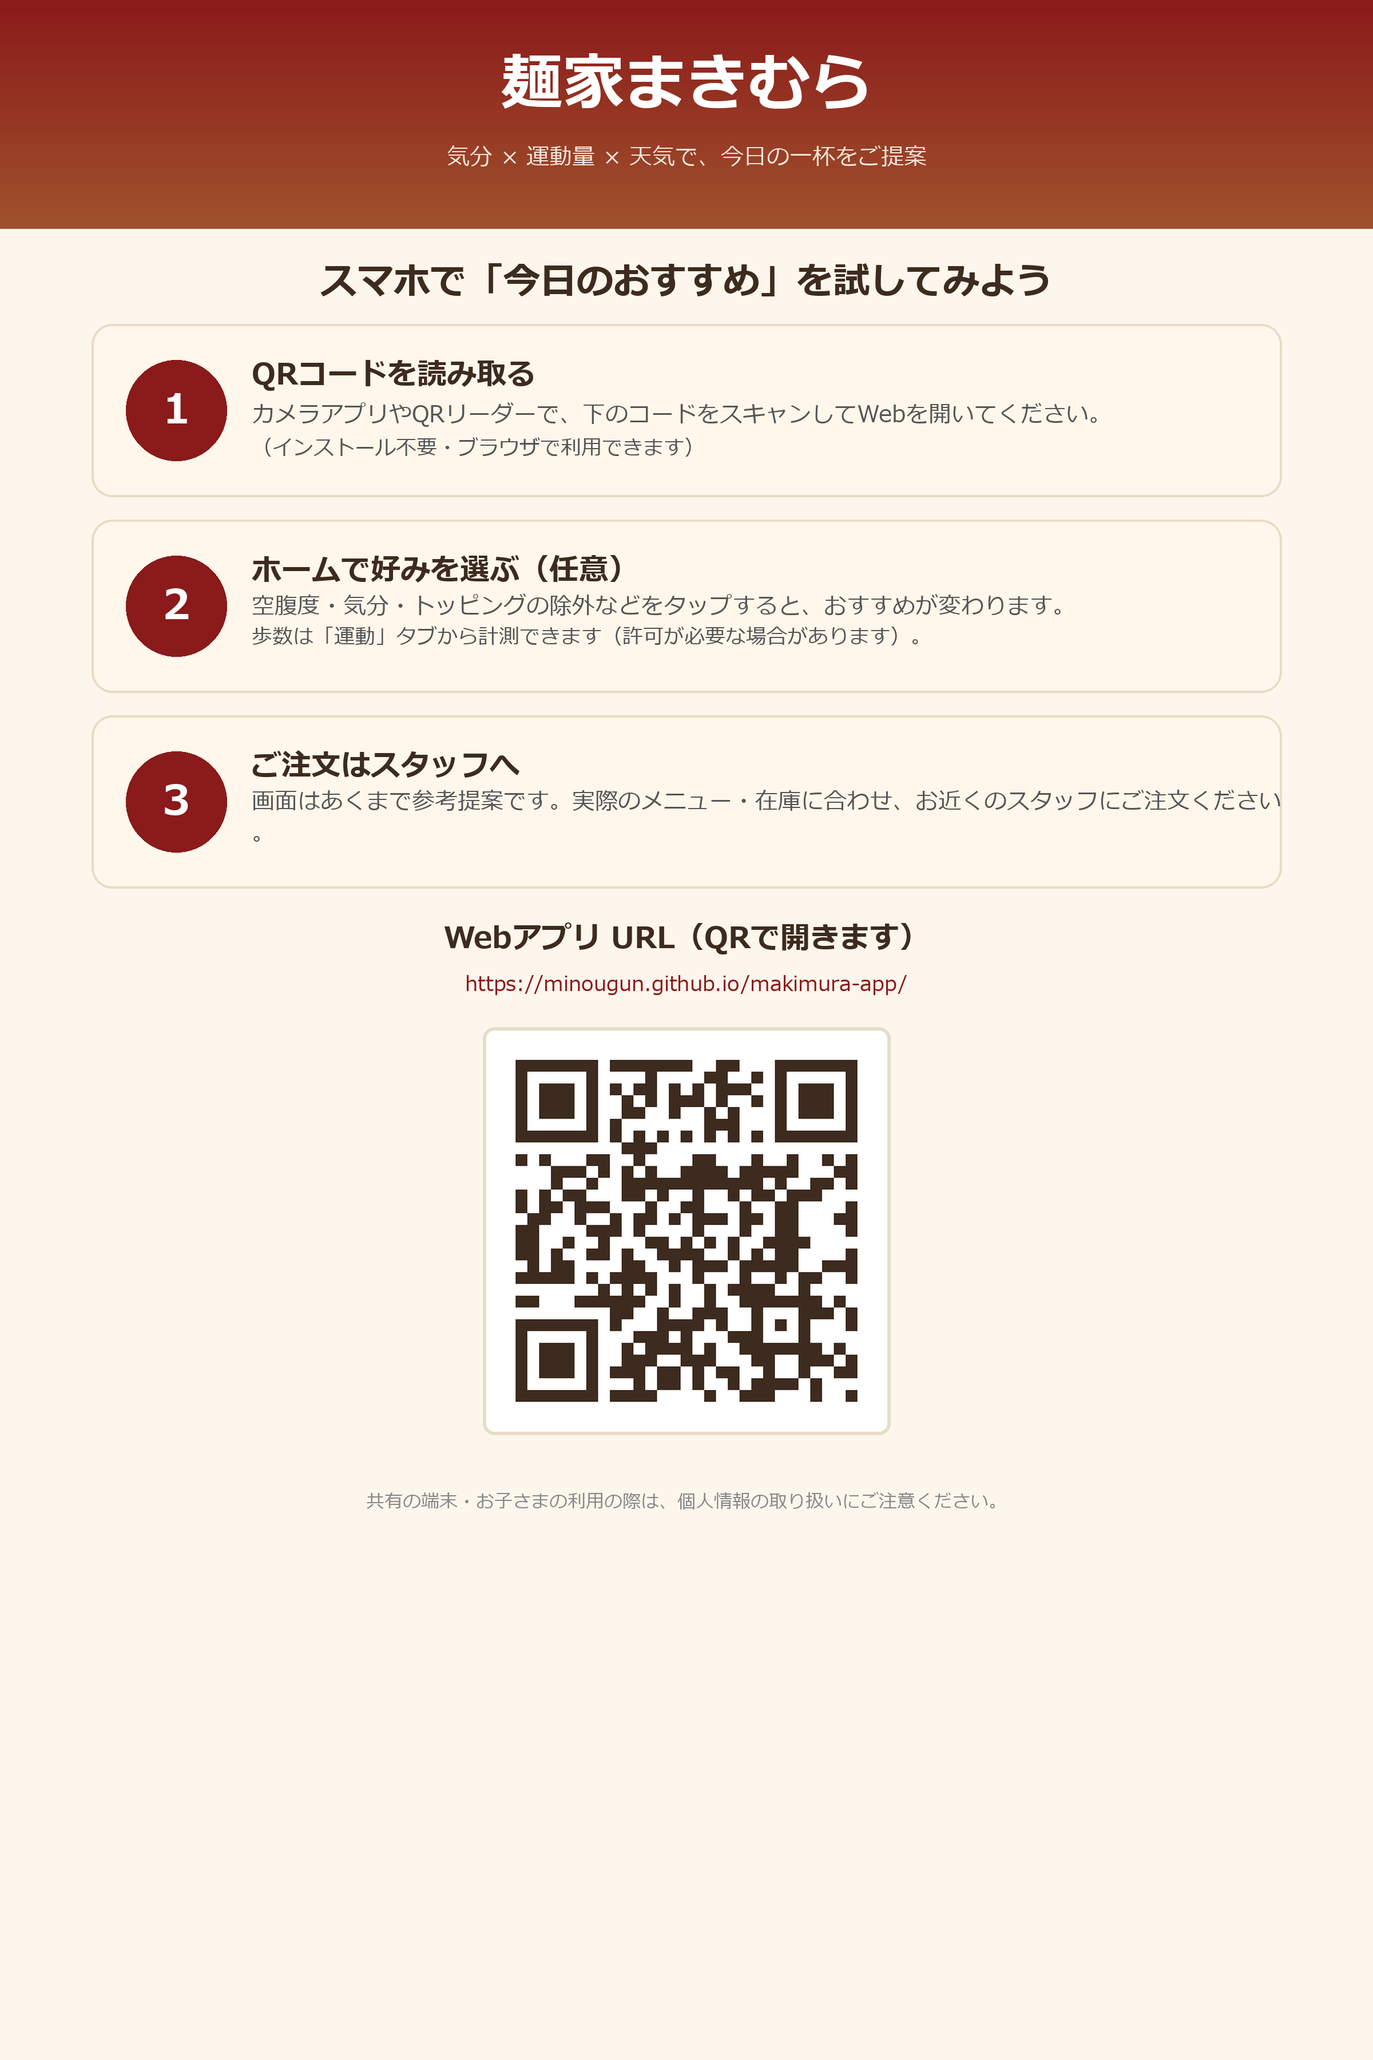
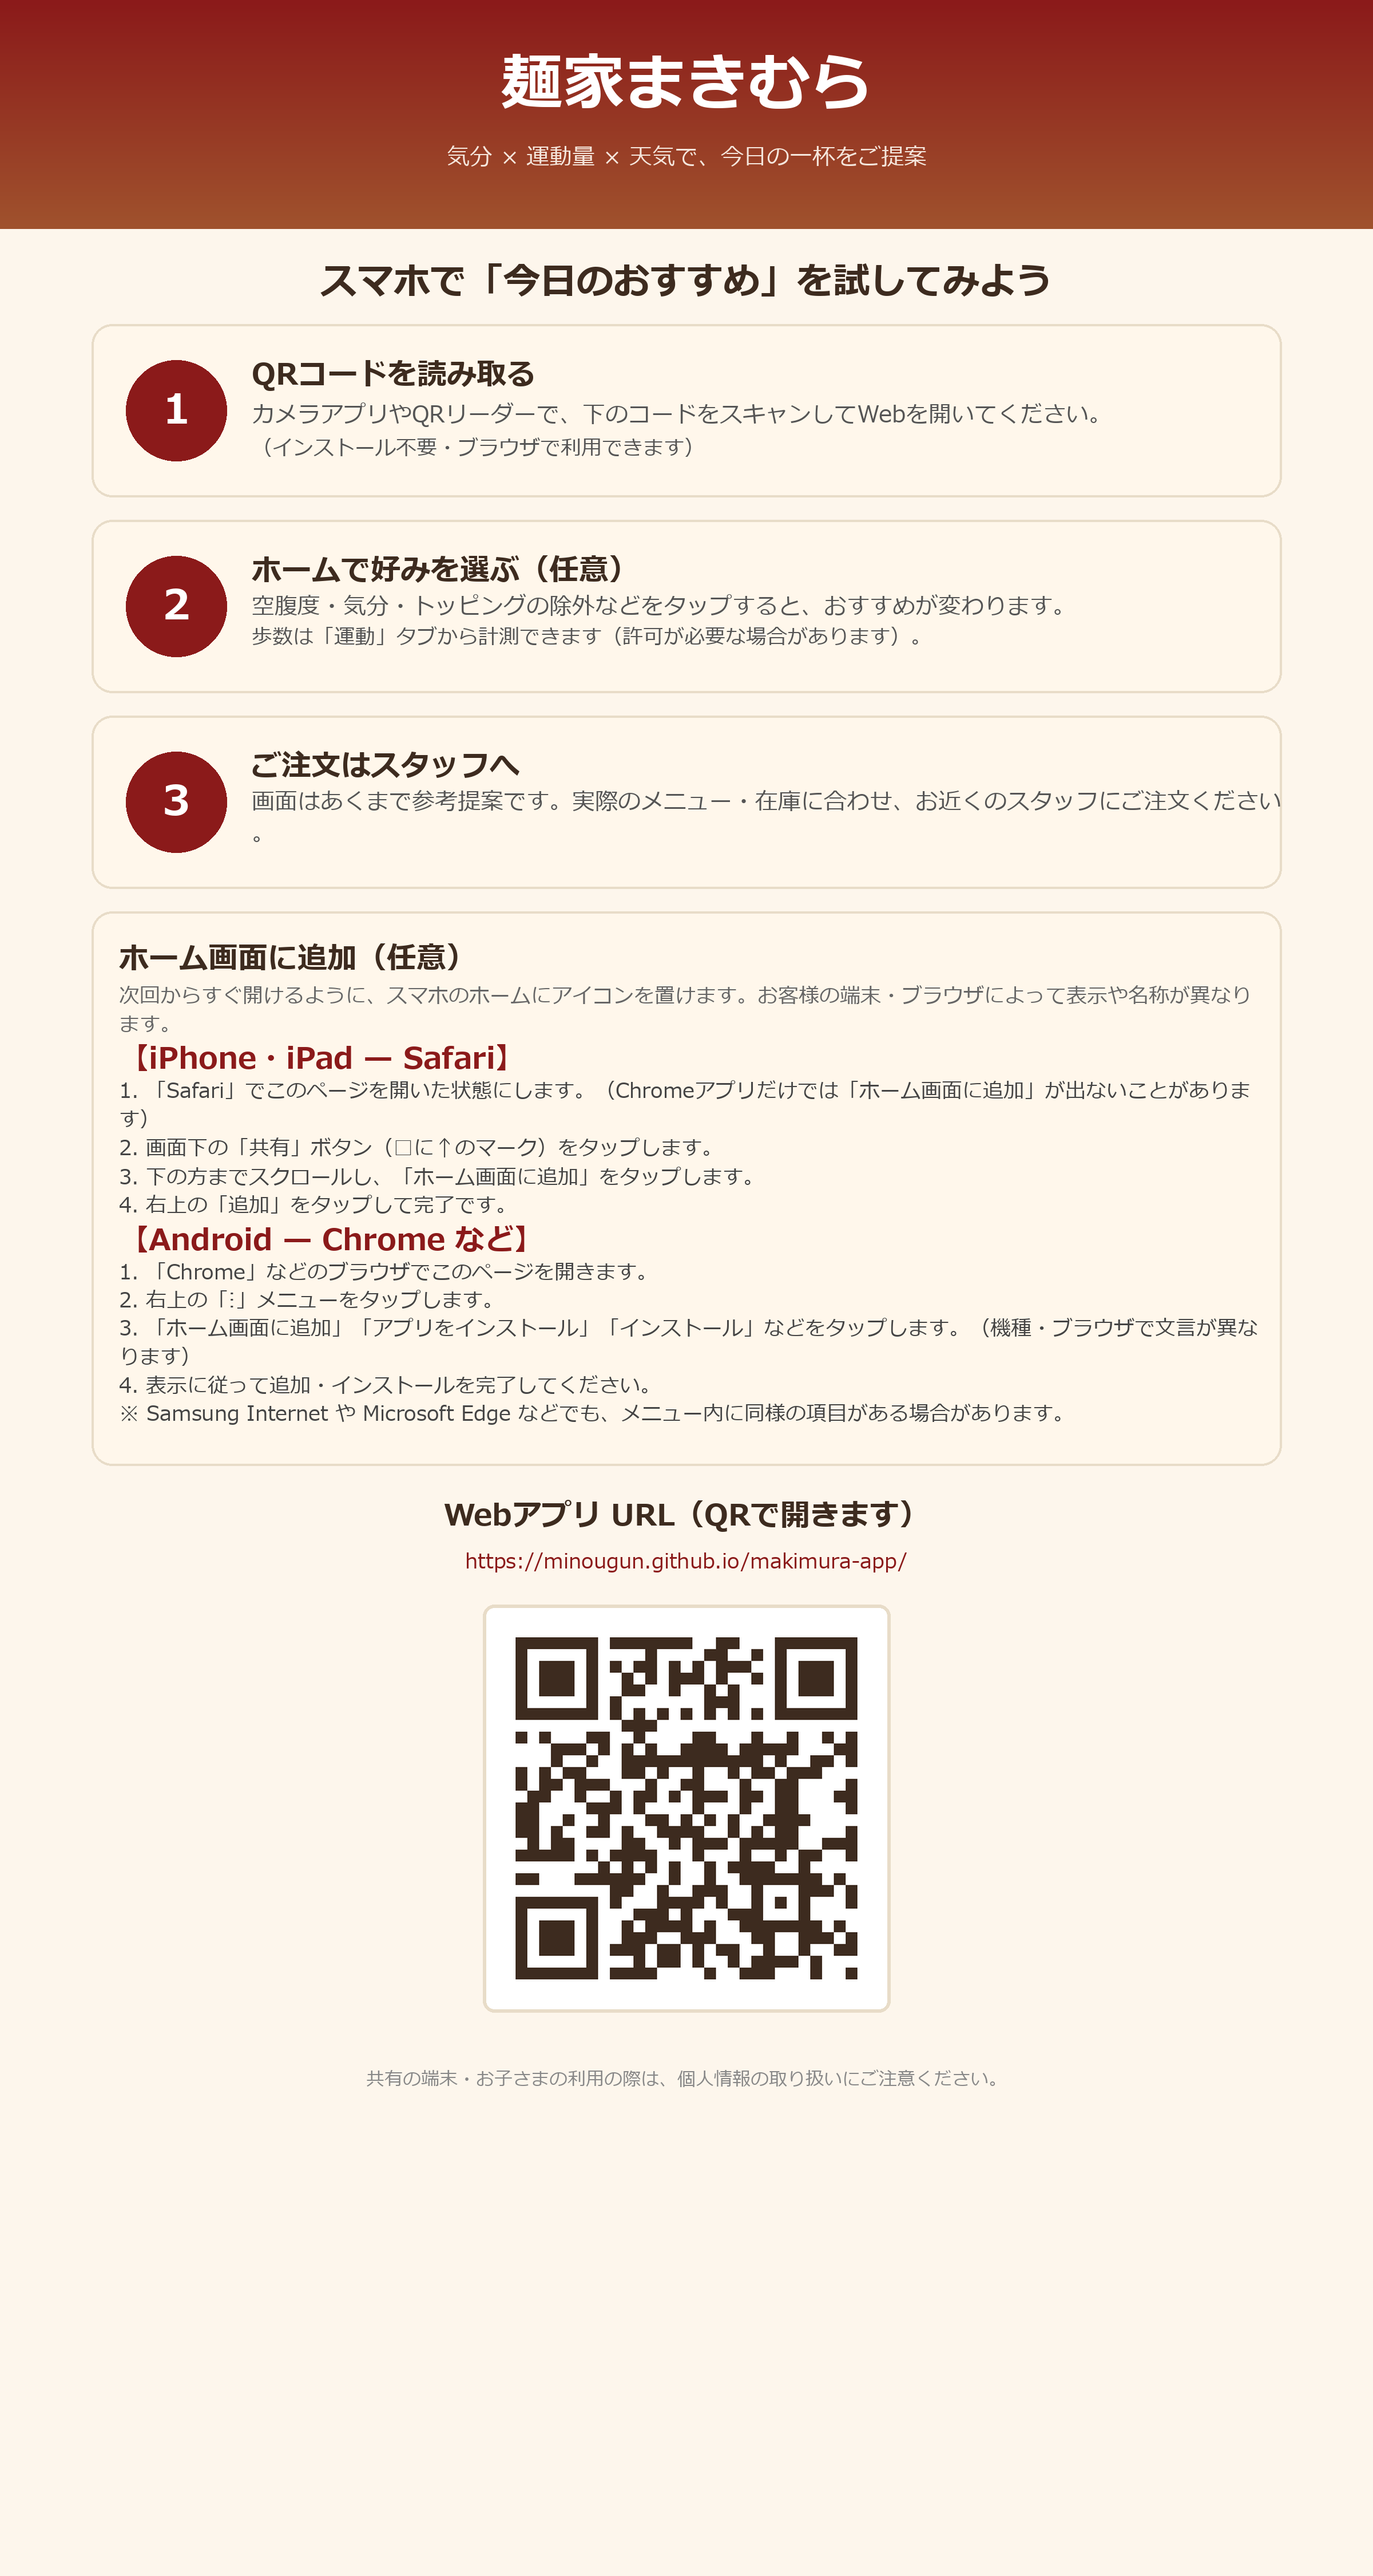
docs: 店頭カードにiOS/Androidのホーム画面追加手順を追記
Made-with: Cursor

diff --git a/docs/table-standee/generate_table_card.py b/docs/table-standee/generate_table_card.py
@@ -88,7 +88,7 @@ def _paste_qr(base: Image.Image, qr_img: Image.Image, dest_center_x: int, dest_t
 
 
 def render_table_guide_png(qr_img: Image.Image) -> None:
-    W, H = 2400, 3600
+    W, H = 2400, 4500
     M = 160
     text_w = W - 2 * M
     inner_left = M + 280  # 番号丸の右から本文
@@ -183,6 +183,65 @@ def render_table_guide_png(qr_img: Image.Image) -> None:
             ty = bbox[3] + 10
 
         y += card_h + 40
+
+    # --- ホーム画面に追加（iOS / Android）---
+    pwa_title = "ホーム画面に追加（任意）"
+    pwa_intro = (
+        "次回からすぐ開けるように、スマホのホームにアイコンを置けます。"
+        "お客様の端末・ブラウザによって表示や名称が異なります。"
+    )
+    pwa_ios_head = "【iPhone・iPad — Safari】"
+    pwa_ios_lines = [
+        "1. 「Safari」でこのページを開いた状態にします。"
+        "（Chromeアプリだけでは「ホーム画面に追加」が出ないことがあります）",
+        "2. 画面下の「共有」ボタン（□に↑のマーク）をタップします。",
+        "3. 下の方までスクロールし、「ホーム画面に追加」をタップします。",
+        "4. 右上の「追加」をタップして完了です。",
+    ]
+    pwa_and_head = "【Android — Chrome など】"
+    pwa_and_lines = [
+        "1. 「Chrome」などのブラウザでこのページを開きます。",
+        "2. 右上の「⋮」メニューをタップします。",
+        "3. 「ホーム画面に追加」「アプリをインストール」「インストール」などをタップします。"
+        "（機種・ブラウザで文言が異なります）",
+        "4. 表示に従って追加・インストールを完了してください。",
+        "※ Samsung Internet や Microsoft Edge などでも、メニュー内に同様の項目がある場合があります。",
+    ]
+
+    pwa_body_lines: list[tuple[ImageFont.FreeTypeFont, str, str]] = []
+    for line in _wrap_text(pwa_intro, f_small, draw, text_w - 80):
+        pwa_body_lines.append((f_small, line, "#666666"))
+    pwa_body_lines.append((f_step, pwa_ios_head, "#8b1a1a"))
+    for para in pwa_ios_lines:
+        for line in _wrap_text(para, f_small, draw, text_w - 80):
+            pwa_body_lines.append((f_small, line, "#444444"))
+    pwa_body_lines.append((f_step, pwa_and_head, "#8b1a1a"))
+    for para in pwa_and_lines:
+        for line in _wrap_text(para, f_small, draw, text_w - 80):
+            pwa_body_lines.append((f_small, line, "#444444"))
+
+    title_h = len(_wrap_text(pwa_title, f_step, draw, text_w - 80)) * 58
+    body_h = len(pwa_body_lines) * 48 + 80
+    pwa_card_h = 60 + title_h + body_h + 50
+
+    draw.rounded_rectangle(
+        (M, y, W - M, y + pwa_card_h),
+        radius=36,
+        fill="#fff7eb",
+        outline="#e8dcc8",
+        width=4,
+    )
+    ty = y + 44
+    for tl in _wrap_text(pwa_title, f_step, draw, text_w - 80):
+        draw.text((M + 48, ty), tl, font=f_step, fill="#3d2b1f")
+        bbox = draw.textbbox((M + 48, ty), tl, font=f_step)
+        ty = bbox[3] + 10
+    ty += 8
+    for font, line, color in pwa_body_lines:
+        draw.text((M + 48, ty), line, font=font, fill=color)
+        bbox = draw.textbbox((M + 48, ty), line, font=font)
+        ty = bbox[3] + 8
+    y += pwa_card_h + 40
 
     y += 20
     draw.text((W // 2, y), "Webアプリ URL（QRで開きます）", font=f_step, fill="#3d2b1f", anchor="mt")

diff --git a/docs/table-standee/README.md b/docs/table-standee/README.md
@@ -2,7 +2,7 @@
 
 | ファイル | 用途 |
 |----------|------|
-| `makimura-table-guide.png` | **印刷推奨**（日本語は Pillow + Windows フォントで描画。文字欠けなし） |
+| `makimura-table-guide.png` | **印刷推奨**（使い方・**iOS/Android のホーム画面に追加**・QR を含む。Pillow + Windows フォント） |
 | `makimura-table-guide.svg` | イラレ／Inkscape 用の簡易版（手順ボックスは PNG に含めず URL+QR 中心） |
 | `makimura-app-qr.png` | QR のみ単体 |
 
